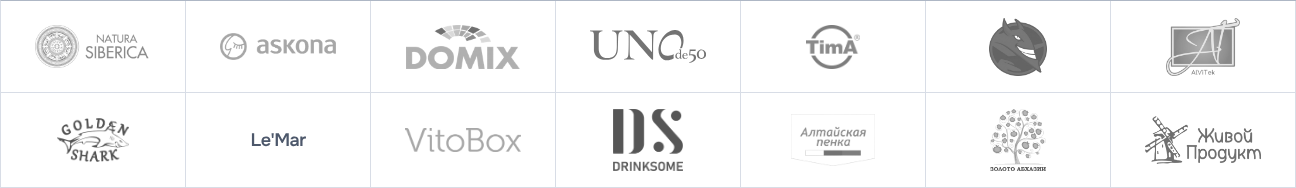
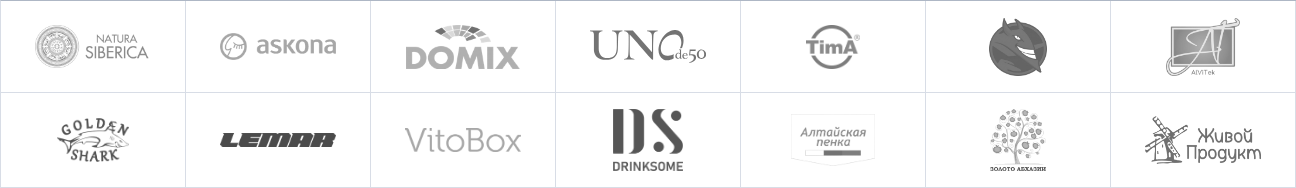
О компании: логотип Le'Mar — теперь у всех 14 клиентов логотипы
Claude-Session: https://claude.ai/code/session_019zSY1mc59wCPc9o92fwa26

Changed region(s): [[0.1543, 0.6915, 0.2778, 0.7979]]

diff --git a/about.html b/about.html
@@ -139,8 +139,6 @@
       <section class="section section--light clients" id="clients">
         <div class="container">
           <div class="section-heading"><h2>Наши клиенты</h2><p>Работаем с брендами разного масштаба — от стартовых партий до регулярных поставок крупных производителей.</p></div>
-          <!-- Логотип Le'Mar пока набран текстом — при получении файлов
-               заменить li.clients__word на <li><img src="assets/…" alt="Бренд"></li> -->
           <ul class="clients__tags">
             <li><img src="assets/natura-siberica-full.png" alt="Natura Siberica" loading="lazy" decoding="async"></li>
             <li><img src="assets/askona-full.png" alt="Askona" loading="lazy" decoding="async"></li>
@@ -150,7 +148,7 @@
             <li><img src="assets/hell-energy-full.png" alt="Hell Energy" loading="lazy" decoding="async"></li>
             <li><img src="assets/alvitek-full.png" alt="Alvitek" loading="lazy" decoding="async"></li>
             <li><img src="assets/golden-shark-full.png" alt="Golden Shark" loading="lazy" decoding="async"></li>
-            <li class="clients__word">Le'Mar</li>
+            <li><img src="assets/lemar-full.png" alt="Le'Mar" loading="lazy" decoding="async"></li>
             <li><img src="assets/vitobox-full.png" alt="Vitobox" loading="lazy" decoding="async"></li>
             <li><img src="assets/drinksome-full.png" alt="Drinksome" loading="lazy" decoding="async"></li>
             <li><img src="assets/altayskaya-penka-full.png" alt="Алтайская пенка" loading="lazy" decoding="async"></li>

diff --git a/styles.css b/styles.css
@@ -1332,7 +1332,6 @@ img.team__photo { display: block; border: 0; }
 .clients__tags img { max-width: 72%; max-height: 44px; display: block; object-fit: contain; filter: grayscale(1); opacity: .7; transition: filter .3s ease, opacity .3s ease; }
 .clients__tags li:hover img { filter: none; opacity: 1; }
 .clients__tags img[src*="hell-energy"], .clients__tags img[src*="alvitek"] { max-height: 58px; }
-.clients__tags .clients__word { color: #4d586b; font-size: clamp(15px, 1.3vw, 18px); font-weight: 600; letter-spacing: -.03em; }
 
 .warehouse__features--eight { grid-template-columns: repeat(4, 1fr); }
 .warehouse__features--eight article:nth-child(4n + 1) { padding-left: 0; border-left: 0; }
